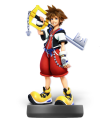
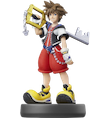
Upgrade Jekyll - Update amiibo list - Fix Sora amiibo picture

Changed region(s): [[0.1636, 0.0, 0.8182, 1.0]]

diff --git a/README.md b/README.md
@@ -4,7 +4,7 @@ App that catalogues all collectibles that I own.
 ## [Live Site](https://collection.moose.software/)
 
 ## Technology
-* [Jekyll 4.2.2](https://jekyllrb.com/)
+* [Jekyll 4.3.3](https://jekyllrb.com/)
 * [Netlify CMS](https://www.netlifycms.org/) for authenticated content management.
 
 ## Build & Run Locally
